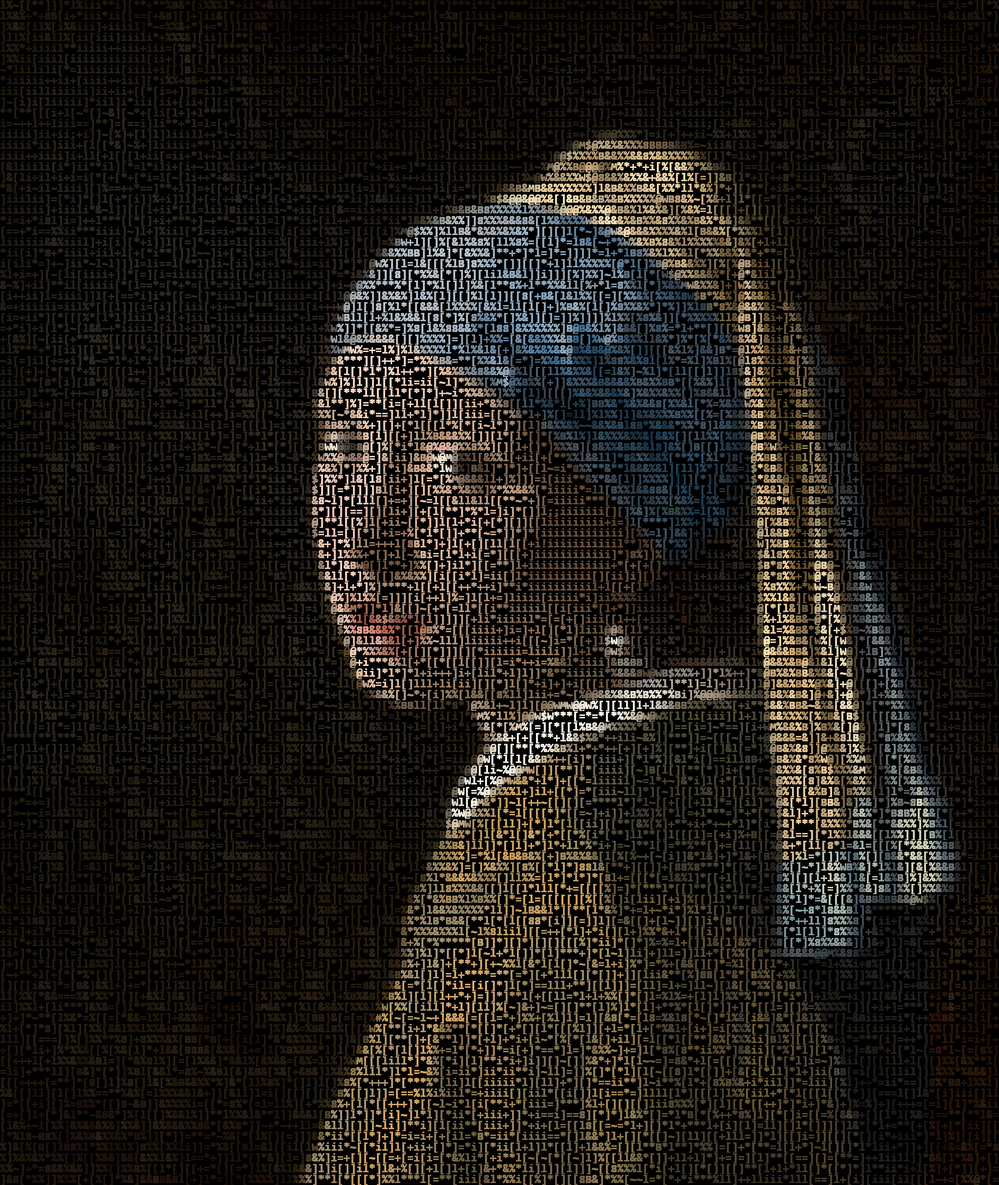
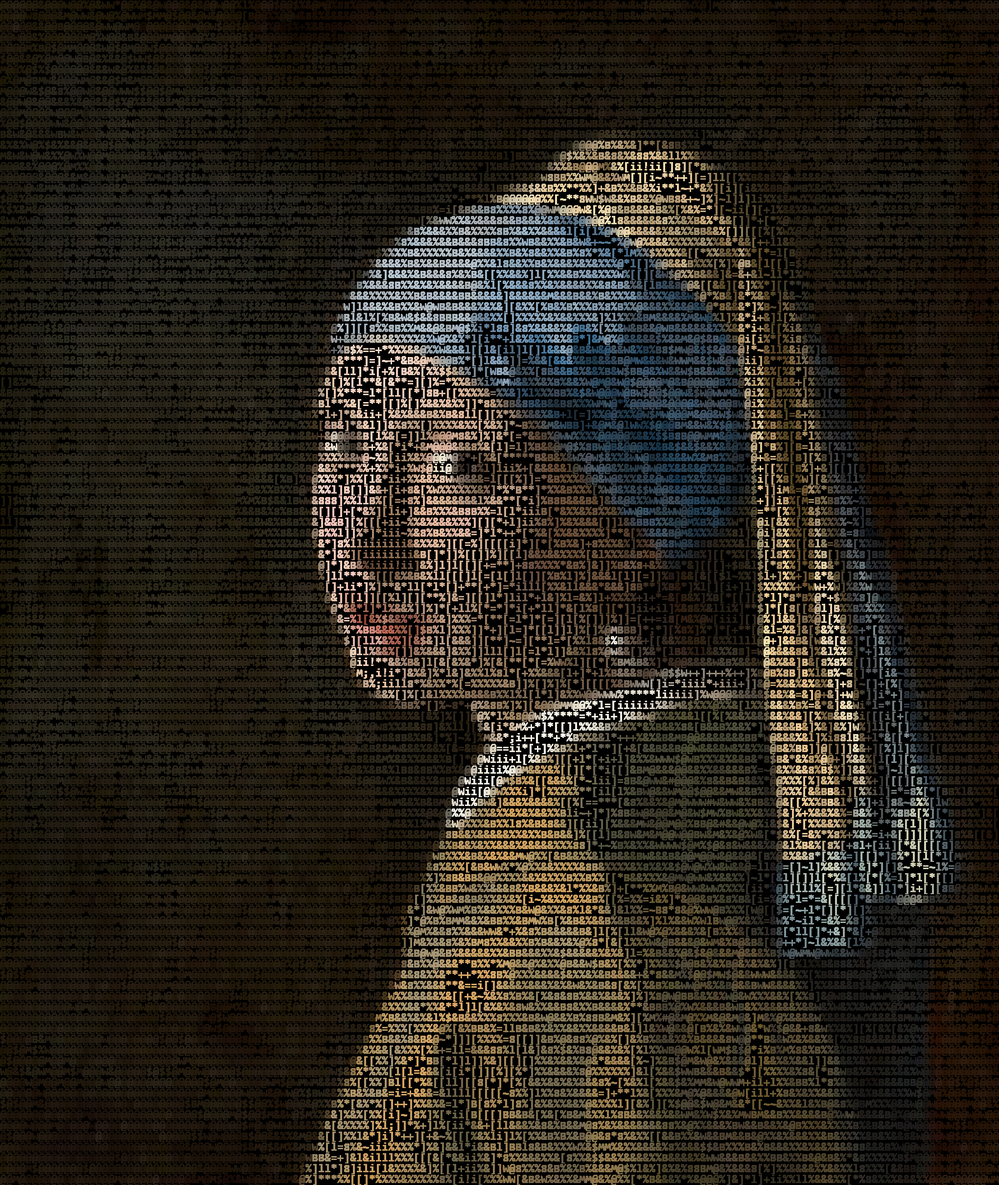
Added smoothing option in contour shade + reworked some docs

diff --git a/src/contour_shade/contour_shade.py b/src/contour_shade/contour_shade.py
@@ -57,6 +57,7 @@ def main():
                                     args.gx,
                                     args.gy)
     converted, p_cts = eg_writer.match(w, h)
+    converted = invert_image(converted)
 
     large_char_bound = eg_writer.gradient_writer.get_large_char_bound()
     color_result = ColorArgUtil.color_image(args.color_option,

diff --git a/src/contour_shade/gallery.md b/src/contour_shade/gallery.md
@@ -12,7 +12,7 @@
 python contour_shade.py ^
 --image_path ../../resource/imgs/girl_with_pearl_earring.jpg ^
 --resize_factor 4 ^
---contrast_factor 1 ^
+--contrast_factor 16 ^
 --thresholds_gamma 5 ^
 --color_option original
 ```
@@ -27,7 +27,7 @@ python contour_shade.py ^
 python contour_shade.py ^
 --image_path ../../resource/imgs/girl_with_pearl_earring.jpg ^
 --resize_factor 4 ^
---contrast_factor 1 ^
+--contrast_factor 16 ^
 --thresholds_gamma 5 ^
 --color_option original ^
 --invert_color
@@ -36,123 +36,123 @@ python contour_shade.py ^
 ---
 
 ```text
-l%~[[**]]]*l%iii**i][**+**%B&*[i%%%l*+ii*+&i&l*ii***iiii****+]**i**[[*]***i**i*****iiiiii**+**i**ii[**%%**]****i*]B8*l[*[*B*&%[]]l%**&&[[*****&*++=[=*i=*][*%
-l%&%+*+8B[i+*iii*ii[[==[+&B][]+]ii&[[[ii%%*i]]+iii;;ii++[]ii+**+~**][=%B[lliii+]&Biiil=++ii[iiii%iiii]*=*=]%]~==[l%&=l*~[iB&%]8]*[il]*ll[]iiii%iii~]+&liB%l*]
-]%&&[il%[i%&iii]+iiiil]*~=%%&+*]+=*l]ll[B&*]l[iiii+i*il=l[]*[i+[[ill]l]][[]*ii=*~+lii=l][ii+[ii+l]l[*l[=+*+]Bl]=]%%*=+*[l*i++]%[+*+[[il=ii+++i~+]ili;;i]%*][[
-]ll%[ii&ll%[ii[iii]iiili*+%%%&][ii][]**[~l[~]l++[+[iii]l[*]l[[i**i]]+[]*[[[++ii]]*[[ii[**]]=[][*~[*[l&l[ll][]l8i%*]]li[[[[iii]&*l[i]li[+]=+[*[l+[illiii[=i[**
-l%%*+iiiil**iiiii++iii+iii=[%B*i][****%*B[*ili=*i&*=*+[]]**[][+i=***li***][+[i]]l*+[i=**l]l*l*]l%%][]%l*l]8&*][****~%&**[lB[]l%ll[]+[[]&][+l[%l%&li[iii=]+*i%
-]%%ii[iiil[iiiiiiiiiiil[ii+[]&[[]*[iii%[i];iiiiiill+i=*iil+=[*iil==iiii+~l++[[*l[][][]li~=[*[ll[l***=l*****=]**[[li[+l[*=][[**l[[i]]][[=l=l%%8%%l]**ii[[ili][
-~*liilili[*=liiiiii[iiii+i[[]Bl=lllii]%[il*%*iliiiiiiili[i*[ili]+i[iiiiiiiiii+i*]]~[+*=i+l++]l~l+[]]][[+iil+*+++][]*i++i]**]&[iiii+]]l&[li[&[==%[[~=ii[i]l%&*
-*iiiiii++ii+[iiii++iii][*i%%+8&++**+[*&Biii&li]+l=[~][]+lii*iii*+]ii*iiiii*=~~[][%=]i]*][l=+*+]*=**]l**i[]i[[i[ii*[i%l]+iii%%li**ii*[*l*i=**[*]%+]++]+]*]]=+]
-iii[iilliiiiii]ii+ii+[[*[i=+]]8=ill=**%&&ii+[%[l[ii[][*[]l[+[i][i*[iii[%[]i][l]lll*&[l[]]%=]+l[++[]]+==[l[i=[~[ii]=+*=[**iii+iii[~l+%+l*i=iil=][[]%[%[=**[][[
-]~[i]i[liiiii]*iil]i*iii[ii+[ii+[][i[*%[l=ii[%*iili][]iil*l=+[~[ii][[[B&[+**l[][[i[**&**l]]*+B&+ll=iiii][*iil+*ii+~]iili[[i][i[~[*i[8+[i+*~~+[l%[]%*]l==%B%**
-**[**[[[i+l[~*[]~&][~*+[li[l+]+l****[[][]*li*%***ii***l++iiii==+ii%%]*+]%%+[]*l%]+**[+iii**il[]]=+ll&li]ii+iiiiiiiil]+++]*i~[]8&i~=+llll&&+i+l*%l**]]*[i+[i+l
-i=~++l++liii==]**]=[==i]li**+*l=l=[+*l]&&=+[i+[%%][ili=+i+]]+i*liii[*[][&[ll[[%[=[*iiiiiii=i[liil]~=liilli]=iii;[l+&&%+li+]&&[*][~[]=[&&l[*i=~+=[li[[[=[**[]=
-iiiii]ii+ii;+i]]~[%]+[l]l]liiill++*i~ii]&%]i]*&%%%%[*+[iil[]%+[[]i][[l[[+li+l8&ii[l[li*[[i=+[%@@@%%%*]=i[+]++ii~%%+l%%i*]%*[[]]8*i[ii%8%+[==i+[i*]il[l[i]]**[
-iiiii*ii]iii+[l[[*&]~%+]liiiii+**]l*i*l*%&+[li%=*lli**lilll&iii]][[i+]]*+ii]***[*[i]+*~*l@@M$@%&%&%%%8BBBB&B%=~iii&[ili~*%8&*l[]*[%][BW[[*iiil[[+*i+[*]+[i*&%
-iiii++iiii]i+ll[+l[[[l+ii[=ii+*l++l~[ii%[&=ii*~iiii[i]ii*l[+i****]lli+liiiiiiiiii+*++i]@@$%%%%B&&%%&&8%&&%%%%&%[l]*=li+]]**l[+i~**%]]]&[*=iii*=++i[~l[*l*++[+
-[&liiili[i*]ii**il][*=l*ili+[i+~ll[%lii+*[l%+i[iiiiii[]][[*+ii+=]**iii][iiiiiiii~~]i~%M@%%B@@@@%M%*+*+i[%[&&%*%&B&l[]==ii[+&]liii=W&&]&l=[ii*i[[+l[][[[++]~*i
-]&[li+il+i+i=i[*[+[*+[*i=l[~[li++*+&&i;i**+*[%]][[iii+***=ii~%i+++iii[]ii]iiii]ii[%W@W%&&%%W$@8&&%&%%&+&&%[l%[=]]&B[l*+l[++8*iiii]=%lB+==+i++*]i]**[**++]ii~]
-*&[+i~il~liii][]%==++*==]**+l]]=+[[+[[l[+]]~[*i%Bli[]ll[i=l]]*i*+~++]i[i=*[[]l&&&B&MB&&%%%%%%]l&B&%%B&&[%%*ll*&%]*+][]**[+i&+*~ii*i+%&~iil[=[+il[]=]]i[]l*i*l
-]iiilii]=[*i]*[]l[+*[i]]%+i]ll]+[+[++&*+[*l[+l+*i*~**%*ii]l&&liii]ll*+*[+**[%B$&@@&@@%&[]&B&B&B%&B%%%%%@WB8&%~[%&+l]l*[[=*[]+*+iiii*%&l%llll[ii][B**+i[*%*=li
-iiiiiii]+iiili*&~l]][[[l+ii*[ll=lii]8iiiiiii~*+ii[ii[&==iii+iiiiiill+[%B&B&B8%%%%%l%%&&&@@@%&%%@&B&%l%&%&][%&%=l[[[]+[][]][]iii+[i[i***&%*iiiiii[[i[==+*[iili
-*i=i+*i8l]i=]++l***[[*[]+i+***+]~+**~li*il=l]**ii+[il++**iii*ii*l&&%&B&%%]]8%%%&&&8&[l%&%%%%W&&&&&%&B%%&8%%&%B&%*&&]&&**[[[&~i=+%lii*[[%%+=[[ii+[[~[[]=[[+++&
-[==+*i==%%ii***iiii]~]l+]%iil[*l=i=i+**ill=i[i[ii*[%%l=][i[[i]%M@$%%]%llB&*&%&%&%&%*][][]l[*~]&@W&@&&&%%%%&%l[B&&%[*%%%l*[l]][[]][=i%%l][*l[l[]]+*+=l[*][l*][
-liiiiii&&%iiil]+i[i][*+i]]l[[=]*+iii=li[iiii%[[iii+l%]i]*[[]=%BW+l][]%[&l%&8%[ll%8%=[[l]*=l8&[~+*%W%&%B%8&%l%%%%%&&]&%[+l+ll[[*][[[i***]**ii]*[+i+iiil~++=*[%
-*ii[i]*8+*iiil+iil+l[+[*i**[]]l~~]i+[*i[ii=[%[*iiii*ll[][l*&&&%%BB]l%&]*[&%%&]**+*]*l=]*=]]]]*=l+*lB8%&%l%%&l[*%%&&%%&*+**=[l][++**i+[ll+[ii*i]*i[i=liii[i+[*
-i[ili*=]+~]ii*~l~l]]]l=li==l[**l]li~[ii]+i+l**+ii=ii]]*]*[@W%][l=l&[[[%lB]8%%%*[]][[]*+l]ll%%%%%[@*l[]%B@%B&&%%][%[%@B&ii][[*[%[[[[l[l[%&i]]lll]i++]*ii~[ii*i
-%l+i=+][~[li[iiii+]]*[=][i=iiiii[[iii[[[+[ii]i**iii]*=*i&%&]][8][*%%&[*[]%][lil&B&l]]i]]][%]%%]~l%B[l[*[W$@%%&&&%*[+@*&lil*]l]*l[[lllil*]i[*]i][~ii[[lii[[i&%
-&~%]+il]**il[iiiii[*[l==*=[*+*=[l*=*ii*=**lliiiii*i]+i~@@%%***%*[l]*%l[]l]%&[l**8%+l**%%&ll[%+*l=8%%l[*]%&%MW&%%&]+]W%&%i*[[**]]%&[*il*i]i*%%*i+l[+[*%+][*[%%
-[i++ii]l=iiii]]l[+[==*i]i**[[=~[]*iiil]~[][iiiii=i[i]l@@&%]]&%&%]l&%[l][[]%l[l]][[8[+B&[l&l%%[[=][%%&%[%%&%8W$B*%&%]@%&&&i]][+*%&&[[[]&&%%]*[[=~=*+[][l*+*8[+
-&=+iiiiii=iil%*[[[l]][i=[i][[iii[+i+~**[***iiiil[i+++W@]l[]8[%l*[[&&&[l%%%%[&%l=ll[l[]+]%B&%[l[]%8%%&%*]*%]]%l8B*8%&@&&%&i~&&%][&[&&%%%&%%*+[*[+]*l[l[i[]***]
-[i=+ii*][*[[[%*[l*l]liil]+i[+]ii[~lliii*iiiiii*+l==]%WBll[l+%l&%&&l[8[*]%[8%&%*[]%&]][]=]]%]]]]%l%%[%8%&]][*%%%%%ll&@B]]&i+]%&[&[&&&W$#[liiiil[]]iii*]l]]ili*
-=+*i]+i[l*l~[l&&~+*iiii=l[ill+ilB*i]l*]iiiiil+il+l+%W%]]*[[&%*=]%8[l&%88&&%*[l88]&%%%%%%]B@B&%l%]&&&[]%8%=*l+**[][[%W8]&&i+[i&%+B&%*&[]*&+++~+]*[]l~*l[~li][[
-+[&%][~[ii[+**%&%[[[[[[il[[][]=]%l[[][iii==]*i][illWWl&@&%&&&&[][]%%%%]=][l]+%%=[&[&&%%%&BB[]%W@%B&%%ll&%*]%*[%[*&%8&%&]&ii8[*$l%B[[l[*l%[*]ii*][l%%*][[][[]]
-il%***+*][ii][[l*l*[*l*+][*++]%*]lli[[+[++*i*+8%[ll%%WMW%=+=l%]%l&%%%%l*%l%&l&[+]&%&%&%&&@B%&B&@%&%[]][[[&%l%]&&]B*=@l%%&ii&&+8%]%[++*l[l[%iiii][%%&**][[[lii
-~i[=]il[+=+i]*&~=*l*+l*i*[]++8%*&[=[&]]lii&[+ii*+]%%B&***][]++*]=*%%&B&=**[%%&l&[=*]=%%&B&%%%]l%88%&%8l[l%*=%l]%Bl%[@l8%%ii%&[%&]%&%%=*]=]%]*+]l[%[]il[&&+[i[
-ii][+]+[*[*[*+%[][[[l++]]l*[[[]]%%[]l**[[+][ii+i][l$&[l[]*l*]%l++**][%&%&%&8&&%@@%l[[[ll%&%%&[[=l&%]~%l]*[ll[[]l]]l8$&]&%[i*&[]%%B&%]l%%&]8%+]*%l*]%*l8&l[l]*
-iiii**[8*[i][l&*%[][**=]]+l**l&%%%l[[*i[[=l%++~[[l&W%]%]l]]l[[*li=ii[~l]*%&%[%M$@%B%%[+]]&%%%&B&&&&%B&%%BB*[[%&%]l[]W&&%%+++&l[&%l[]&*%[*&&]l*]=l~***&8&]]B%i
-iil=]l**%~[++~=[B]%&%=[i*%%~]%%%ll+]*&&8[+*%ii*l[B&[][***ll[[ll*[*]*]+~i*%%&%%]%%*[l]][[[]%&&%&&&%&]%&%%&%%[]%8&&ll]W@%%%[=*%B8%%]**l]%]*&%%8~%=*]%l[%&%%&B++
-[[]%&=i+]]=[+[]%[[]&%]i]+l**=]**ll*[i*%&]]i][+++=%&l**]%]=**[i=[+ll[l[]][ii+*&%8[[ll*%&*l[+%]BB%&*%&%&&8[%%&l[*%=%&%%W%&%&[i*&&&%l[[[]*l%+*8%&&%[*]]l]8&&[[~l
-i=[]*ii8[]=+[[%%l[[]&l[[+iili+il[++]i=%%[[*+l+%%+%%%[~*&&i*==]ll+*l]*]]l[iii=[[*%&*l+]%[]=ll]%l%%]l]&%&%%%B%%[[%=[%&&&&B%&lii&=&&l]=*[i]&]l]8[%&l[=**&[l%%]][
-+l=**[[]**+i]%B&%&ll****+%%&%ill=[l=]=[[[l]=i*l[]l&&B&%*&%+][]+[*l[[[l*%[*[i~l*]*][l]8&%%&%~~&&%&Bl8B*%&&&*%%*8]l&&&%&%B%&]]+&&&&*[]][+]]&&]+[[%&&][**B88[][i
-*=]i==*]]lli]%%***lll%[i*%%l]%l[l*]=]=]**l*[l]l[i]%@@@@&&B[l][[+]ll%B&&&%%[]][l*[l*[]*[%B%l%]l&%%%&%%&[&&%[][ll%%[%8%B@B%&[*iB%&B8B[*][][B]%%&&8&%[*]*l%%==&l
-iill[l]=[ll+]B&=lB+]]]*][[]ii+l%*~[~][*+ll*[*][[+]BWW@@B8@[]%[*i*l&@%@&@%%8%%][][l+[]*]%%%B][8&%%&B&&&l8]&%[]B[[]l&%%&@B%W%+iB=[&l*%8l[%%&]&%i[+]%*][%8&[l[]*
-iii****%&&l]%%][=%l[[][l*l=[*=]8%==%&*i]l=*[*~&*+%W%%@W&&@=]&[ii]&B@W@M@%%l[&%%l[+ii[+[**%%l&&ll]*8&%%&&%[**%*[%l*]8[+@%BB&[iBl[&%]]]*&[&&*%%+8[**][[%**[**&[
-iiii*=l[&&[*&l[*=&]]l][i+l*]=l&&&**%%[i]ll+ill[i~@%&%]*]%%+][*i]&B&&*lW@%]B&l]*]*]+[[l~=i*8%%**&**l&&&%&l][ll]%*][%&=l$*&B&[iB&]%&]l[[l[i=i&8l****%l]+*[][l%&
-ii+i~]]]*%[+]ll[[[l]l[*]++i[]l]]&*]%%*l*l*iii*+[[$]%%*]l&[l8[ii+]l[=*[%M@&&&ll+]%]]]=i[iii**&%*&&[l]]%%%%]]]][*][&&%*l$*&&&@i*&8%&[][l+[~[+[*ii[]=[[%%++[[]]]
-iii+[l[%%*[][]+%%[l]+[=*l]l][8[&+]*]]~[[i*liii=]&$]][=*]]]]Bl[i+][][%%&*%&%%]%*%%&&%[*iiiii*=ll[B%%l&&88&[]%[*[l[=[]]*@%&&l@[=&B&%B]&&l][[+[[+][]l*~**++*[l**
-;i++=~*%%[[[l][%%]l[%[l[]%8Bl*[8=[[][[**ii+*ii**B&8~l]*[lll[]+=+][~=l[[&ll&ll[[**~*+][=iiiii***[*&%[[%&%%[%&%=[%%=**l[@&%B*M&[B&B=%]%%ll]li+**l][i]+&][[++*l%
-iiiii++]*l*][]*[[%[8%[*+l%[[]]**[]l]l+ii*iiiiii[%&*][][==][][li+][+[l[**]*%*l=]i]*[]]l;;iiiiiii[][]%&]%[%B&%%=l[%B[%]lB%%8B%%]%&$BB%[*l[[[&%%&%[ii]lll*%l+*]%
-iii++]*=[][[*[=]]**lll]]*[=*[[*~%&***[i++liiiii*%@]**l[[%]l[+ii~[[*]]l[l+*i[+[*][]][[liiiiiiiii+i=]l[****]l%%+]*&]%%liB@[%&B%[%&B&[%=i[][%%%[B&[[*****ll=+i][
-iii*ll[]*l%]ll]Bl~=l]*%[*i+][&=~&%i]&[[~[*+*=**~l$=ll=[][*][+i=+%[*l*[]]+**[~=*]]*]*[iiiiiiiiiiiii][%%=l]]&&]+]l][[l[[%@l&&B%*+&%B*%%~8+*]=[==]*i==]iil][+]]l
-iii%%%%&[[%=[l]l]%l]][*+l[+[[[ii&%%=+ll]lii++i*[*W&+]*%]ll=+++l[8Bl*]+]l[+[][ll[l[[+i!iiiiiiiiiiil**]%[%[*%%]]]****%[l%W]%&B%ii%&&~%%[[[[+l[]l[[ii+[i+&[l**]*
-iii%%[=[l[%]*][i]%[%[[+i[*][]+[+]+]%&**[l*i+*iiilB&+]l%%%+*[]+l[~%Bi=[l*l+i[=*][[[+]iiiiiiiiiiii]*]8%]]%[[[%][*iii+%[i%$&l8%%iiB%&B]][l8==[]*il[*ii]]=&[iiiii
-%li]]l]]+==[l]][*l%%*]++*=*%[[*[]]l]l]=*]i[[=[*il]&l*]&BW@[]l**+]%%[]+]il*][[=**]l+iiiiiiiiiiiii+*[+[+[]***i*==ii]=88=i$B*8%%iiM@B@~]%%B&%*ll=liiii*i]*&]+==l
-[[i][%*[[]]]+l[~%%[&%&[[*]+&[*[]&%%+[]ll][*8%]][**&&ll[*]%&[[]&%&%%][i[[i*l]=ii[]l*iiiiiiiiii[][ii]i][]l*[il[i+ii&il=*i@&*8%%+]W@*@@[]8&&%l[%=[iiii]+l]&]l]l+
-++iill+[[*[*][[*&%%%&**[iii[][[[l+=+[l+[ll][l=8&%l%&]+l+*]%]****+l[[+l[[++*++i]**i*iiiiiiiiiil+l[[+[l*li+]~iilii+iii+i*$%8%%%+*WW~B@]&&&W%%[&**ii=i*]*&]+]l*=
-i]*%%[][][%=[l][*=*]**l*][l][]]%*=****i[**=l[i%&%i]M@%]%l%%[=]]][i[++l]%=]l[l+=]liiii[iiiii*i]ii%%%%iii!i*]=+*i[*=i+[i]$%%l&&][W@*%@%&%8&&%[&&l]+*[]+l&%%[+*]
-iii*]il[l[&[]][+=li[i]li]*]%&]][][]]+l[[i%%%l~l]=i]%@&&M*]]*l]&[[]~[+*[=ll*[[i**iiiiil[[i[iii*[l+*]]iiiiiil[[+%]+ii**i~@[*[l&]B]@l[M@%B%%&&[l&*lii**[l[][=+[l
-[i[i]i+][*[l[=]l]l][==]+][]%%l]]][[]+]][[%%**iiii+*%$@%%l[&&$&&%*l[l]]]]][+li*iiiiil*=[=[+[]iii[[l++[+iii*~8[lB%iii;ii]@%+l%&B&~@*[%@]%B&B%&[%&[=+i[l[&&]]]=+
-*[[][i+][+**[+**l*%]%[[**[*%[**[**[[[[%%[*][[*ll**i]]$%%8B&&&%*[[l@B%*=[[[iiii+]i=]+l[][*l]liil@@&[ll*iiii*[=+%iiiiiii*@&l=%&B&*$&[+$%B~%B&8]*%[+*==*l%%]***i
-**[][[~&ll[[+l[%l*+*%l[]]l*[[]lll%[[[]B&[[&[[]B=[l[]*%@]&ll&&&l[+]%%~lll]liiiii++i[[[~]i=*[[+]l$W@&[[i[i+%*]ll]+][[]lii@@=]%&B&[W%[[W&]*[&&&[]8[+*=+]ll[]*l]+
-**i*]*%%8=*[ll[%8==[+*[&*[]l[[]lB&]%[%&[l]%][]%+**=][=@@*%%%&%[+[[][*]]][][*iiiiii=liili]]l+l**@W$%[l][*i+l*+*i][+][[*iW@&&&BB&]%&l]W@]+lB]%%]*%**+*l[=][][*[
-il+=*[8%&[&8&]l*[[i[*+]]][[**%%=&*&*l]]*ll&&%l%ii[l*=]%@+i***&%l[+*[[*[[l[[]][l=i*++i=%&&l*iiii]&B&BB][[+%%&&&&&&&%%&llW@&&%&B@&l&l[%@[[]]B%&l]]+ii*~*8l]]*ll
-ii~[l]*[]]*[*l*&]l%*[*]&[=&ll&88&%%]8=*~[]*l[lll+l]++]&@@ii]*l*]*l+i+++]i+[lil*+l]l]]*&**iiiiii*%&&&8W@WB$%%%+]]*l%++]*&@B%&%BB&%&&[~&]]**l[&%]l+i~=[[l[*l**[
-i+[[]+*]+[[[l][%%]l[][l**[l%][&B%&B[]%+]]]=[ll+][[*i~ll[@W%=i]l[]lll+li[ii][][*]l[]*+i]+]+i[[[i[%&&BB%%%l]**l]=l]+][l]]l@]&&%B&%@%&]+@[[[]+[%B[%li]]~[%%li[=]
-ii]l*&+[+l=**i=l]i*]][l]**]*&&&%**[[~&l]*l=]]*][]**i+[*+[%%&&%[]~*+[i]%%[l&&[[8%ll]lii+=*~[%@@&&%&&B%B%%*%Bi]%@@@@&&&&&&$B&%&B&]@+&]+@@*]l+%&&%%[*[i+]%%===+]
-+[]&[&[%ll[+]]&[&[=[]=[[+[=*%[8%%l*]**][i~]ll8[*i=*~~i=ll*l][%%BBll[ll*8*]@%&l+~l]l][@@WMW@@W%[][ll]l+l&&&BB%%%*%%%[+i**$&&%BB&~&%&[&&@]*[**%%%l*[]+=***l*=+*
-l]][]]]%8**=*B][]%[*[%l[%[+[ll[%%[i[]%]+][ll***[*]i]il%&&]+l*=l**+[[[i[i]*MM%*ll%]@@W$W***[=*=*[*%%&@W@W%[l[li[iii][l+l]@&&%%%%[%%B&[B$][[[[&l&%]*l[~ll][++]+
-]][[[]=][*=]l[8=l=l+ll]=&]][i+%[[]]&[%*ll][il&Bii[=~[[*[][&%ili]+l=[i]+i*i*%&[*[%M%[=][*[[l%B&@M%%%%*&l]]]==[i=]~*==][i+WM%&&%B]%B%&[]@&]]l]*[8&[[*li+=iiii[l
-[****[**l***=]l[8=[[[~]++++*i**l*=&[[[][**ii[&&illi]][[&B*%%=]]][+**i*iii][%&%&&+[+[[**+l&&$%&*++ili~&%]]***]]=~[[[~[=[+@@&&&=&]]&+&8lB@]l*8%&%%&l*ii*l[+i]i]
-]=[]ll+[]]l]+%%l[[lll[+l~[[ii]l]*ll]*][[[iii]%%[%[][[l*%%l+][ll*[i]ii[ili][@@@[][**[*%%&B%l+*+*++[+][+]%][**]+i[[]&l[=*]%@B&%&8]]@%&&]%$+][&]&%&]=[[+l]l[iil&
-+*[[]ll]l]*[%B&][[i++l=i]+li[ii++[]*][i][l]i]&+[*l*]]=*[illi*+i+ii[*[l=iii@@W[*l[l[&&B%++[i]*[iii+][*l*%][&l*i[]==ill8B+*$B&%&*8%W@][%%M&[[[*[%&%[[][[*[]+i+]
-[]*[*%i[%l]=%%%B[8+]*&*=lii*[iiil**[*]*%%&*i%&*[***=%%%[***l*[il=*+++**l%@@[li~%@@MW[]][**][*[iiii][~]B[l[][**[*]]i+[*[=~@&%%&[8%B$%%%&M%]*%&[&B&[l]ll[l]&[*]
-[[][]%][&[*+[l*%%[l[B&=l+lii]]=[]+]l[%=[*&[]%l+%li[=[8Bl[%]][lii+i]+[]]%@Wl+[%@MW&&*+l*]+[[*=liiiil]~=l*+~]&*i]l[+*[l]l[*@@%%%[8]&%&[%&%%][%%[%&&%%%[]*l+[i**
-****l[[*[[[%liii+8+*%%~[liiii[i]ll]~[]]*ii[]%=llB[[[][=[*%+**iiiiiii~[%@W[=%@@%%%l+]il+[[*]=*[iii~ll]*][~]l[[l%&]]][]l[%&%@%][[&%B]&]B%%&[l]l*=%&&%[]**+[iiii
-[]+*=+=][[[%liii+**]8&[][+iil=ii***8%]8%]l++]&&+]][]*&&][[=]il*iil*]*&@Wl[@M&*]]~l[++~[[][][=****l*]*l~[[+[[[+ll]*=][il]*%@&[*l][BB&]&]%&]*]%B~8B&&&%l*]*ii++
-*l=~+~i=l&%l%][[i[**B%l&&[~+[[&==*[+~&*l*]*[l&%+%l%[l[B]%&l*[iiiii]8[*@%W@&%%l[*=l[[[[*]*[[=~]+i]]+l%%]%[*l[=+l***=]*+*[*&$&l]+*[&B%%]&&%*]*B8B%[&&[*[++*iiii
-i]=+]*i][]*]&8%[+l[]][B&]*l&[lB&]*[[*l[[+l[*]~[*&&BlB%%[]%&]*=[iii+%%%$@MW[%[[[ll]+[*]l*[l[[ii][[**[&%[%]+**+i+*+~+*l]*[i*$&]***[&%%%*B%&[**&&%%]%B%l[=iiii*i
-i+[l=i+%&8l[]%[][]]]%[]]**]&l&B%l+i][=**=[**B&%&&B%%]]%*%%&%l[iiii[%%B&&%*[]l[&*l[]&*[+*[[*%[i*[**]ll**[]l[[[l]=[+i]%+B[[=@&l==][*l%%l&&&[[l%%]]][B%[l[[iiiii
-iii[l+][]&[]]&&[[*[*&8=+%%l]=B&%+i=]]%%++l++*l[8%l%%ll&l[[l&&+=iii[%B&%B&]ll]]*[]l]+*]l*+ll*%*i+]=~]**l[]=**%**[]+=[ll[][%@&+*[ll[8*l=&l=[[[%[*%&&%%88&]l]]ii
-][+[[]%&B&][]%%&B=[%&l[+]&ll[*&[i]*&&%B%&l%[%ll[][+*[l%8&[l%[[i[[]%&&%%%%]=*%l[&B&B&%[+]B%&%&&[l[%[%~+[~[i]]&*l&]+]*l&+[B%@&]%l=*[]]%[8%[][8&&*&&[%&&B&*=iil+
-[*]l]+[]%&][l=&l][**%=]=ll+][i]il+*l]l*l&&l]l[+l]*~]+[]]][l[[&**]l+&%%&%]=[]%&%%][8%[[*l]*]88l&[**+][[]]+[88%8***]*[[%=]l&@%[]~*]l&%WB%&]*l%l&][&[%&&B&l][=]]
-]+*]=[8]%]]l**[*+]&[%=*[[i==%l+~[[[]*=*%%&][*=]]%l[[&B[%8&*]*l[+~[8%l*&&&%&%%%[]ll%%=[l*]*l*]*[8l+=[[[*[=l&%l]*[[+l[[*=]*[8%][][l+l&&]l&[=l&%B]%]&%%&&&+[[i][
-]i]+=l[*]ll8ll&[]8[]l%][li+*%]][[*l]l%+[=*]+=[[&*]%%]*%&%[+[[=]*%8%]ll8%%%&&[[]l[[l*lll[*+=[[[[%]=]*[***l*[[]**[]i*l][*i=8&&[l*+%[=]%%*&&]8&]%%[]%%&%8l[[*][+
-[+]ii][i[*[l]][[]]*[[&lii~=*l[[[+*[[%&l&]*i+%&][][%&][%&&*[*[]*+&%[*&%BB%l%B%%[]*=[l=[[[[[][%[[%[]i[lii][+i]%[[]ll*]**[[+%&%*l]*=&[[[&]&BB&BB&&@W$%[[*]+[i=%*
-%i*ii[%l*l*=[8*+[l*]+l]]+=~*][]*+**[**[&%+**%+*[[]%B%+*[[[[[]]=%&*]l&&%&%%%%*ll]]~lB&&l*][**[l*&%]*+=l+~*i*]%l*l[]l**[B&*]&%[~+8*l8&&Bl]&*****l**]*][~*i+i*%i
-ii*il8&]l[l&]][lll=*][[[]l[[%]*]l]=l*~[]B]l+]*][[*&[*l[[[~[]%%l&%*%lB*B&&[**l[*[l[[88*[i]][=]]l][=&[[]+[l~]][]]i*[B[[[]%[&&%*++ll]8%%%8]*[ii+[*[%%i[[i[+i]][l
-+ii]+il*[==i[&+][+i]&[l]l][]*]+[]*[[[l[%&*BB&]+&[[8]+*]l%&&[][*&*%%%&%%%l[~l%8liil][[=++[*l]+*i[][l+]%%*&+l*[][i]]*]][[ll8&[*l[l]]*8%%&[+&i*+l&&%*+*[i*=+*l+]
-ii[*+iiiii*++[*%B]l*l*]]l=]][]==*[***[l%%]i[%[]=+*%8ll8][l%[l*]&+%[*%*****[B]]*][]*][][][[[%]*ii]*[]*]%=%=l+[]]l&[l]&%*[[%8[[*]%8%%&&&][]&+]l]=&[==**+%[=]8i[
-li=]*+[]]+[=]*~%%l]*++~]&%ll[*+**ll]l][[~**[l*]l][&&%l*l[*&[*%&%%]%l]*[[*]l[~l+*l[]]*[l]***+]*[l~l]li]+]ll=]]ll+*[[%%[[8*8&&&&&&@@M%&88%%l=*]l]i*+i[~]B**l&i*
-]+][[l*i[]l[ll&%%]l[il=[*[++~*ll&%*]+l*[][+&[i+[=[i]*]]&%%%%[&&8%+]l&]+[**+][+~%%l[&*l[l[]*~[&=l+i]%*]=*%+[&&[][]*=%l[[][l*+][~**=l+%%i+8%[][]]+[]ili***+ii[]
-[~+**+l[+[*[*%*[][]]i**[*l]l=**[%[*]%[[[**l%[il]%8&[+l*]**%ll&B%&l[]l]=l+****=**[=*][+*lll[][*[]]+]][lii&**[%]88[l*&*[B%%[+%%[l[]*[]%%]]%&[*%*%l[li]i]]**]*[l
-[][[[i&%]*=[B&]&%l+]+=*[]]l]%l[l[&&[[l*=[llB*+[lB&%[[][==8&[&%&[=*[l[]*il=[i[]*]l[*]==lll+**][[l]]]=[ll]=l+=]ll~][l&[[*%%[&]Bl[[*l[][ii**ll+]]=+B&ii*[=l]li+i
-ll[%%[*&&===%&*%%*][][+&%l]&&][[=[&***i[[%]%%**%&&%*]+%B%&B[%B%l][l][l++*+]=]]*]**l[+[[ll=*l+l+%%[]*[]l=%l%=+[l]l]%%*%]**][*i*]]+l%%~+i]]l[&&[ii[[+i*B*i=[ii*
-il]%%l+[li***]&%&=[]l**%%&l]l%&=[+[+ii[]8M&&**[%l[&&&%[%%&l%W[%%[[ill]*+l][ll]%[~]&+]~=[][]**[l]%]l*[l]+**%*[l[]*]]+][*[[l=][]%=%%%%%[]][+i+]=***l*[&&=l*[l[*
-+]+]*~**[l%&*=%[[=[*&&=l%[]+&&%8+l*l+]=]]]%&%]]%[BB]&[=[=[%#%[~[=~l~+]&&&[=[[l=*+]%%+[%l]l]=l][&8[*=[l8=%&l8[*~[]*l%&[i&&]&*[l&l%%*[]~&Biii==i*[++%%8&*+l[i[+
-%l+[*]*8][%l][%%[&&l%%l%%&+8%&&&B[*[[l*]**]%]&%=%B&l8%[[[%W%[**[i+l*&&%**[*[[]*[+*[][l*[[[%l]][+l=*[l+[*%&l+[i+]=i[%%%[*][%%][*[[%*[[iii[iiiii+l[[%%[][ili]**
-lll][[===[]%[]%%**%8]+8%%%&%[BB[*B[+[[i[l]*&*&%%%l[*]]]&[B%l][**[]+[&**l]]*[+l]+*i+[i~*[%[*[l&[]+il][=l[[*l[[**]&%[%%%ii]Bl%][[l[%B+i*=***[i]=++*][*ll*i=i+[+
-+[][*li+]%*%%&[[%[%&[l]*+l&&[B88&[&%&[l+=]l[%B%&&&*l]l[]&&[%[*[l[]l%%+=l*[*+]]*=i[+]*==*]l=]*&%%~]+=]l[*8%[8**ii%%*]&&ii][*%]*l][l*&]+]=&B*+l[*l~[=8*l~[=[8%]
-[[+++l[+l%%&%%&Bl=][*&%8l%][=[l%&&]*&&l%[&%&&=[&%=ll%]%WM[[[lill*]*&%[*i][l]**i*i+]i]][]~[]]%&*+]*l[l~~=]=8&*+l[=[[[%%i[[]*[*l]i=~]%&ii[][[lll+l[][]%%[&%**l[
-=li]+***ll][B&]*[*]]%Bl[&&l*=8%~%&Bl[&]&B&[%&[+&B&]l%&%8%lll*]l*l=~&%[i=ii*]ii*ii**i]~ll]=]]%[]*[*l][l[~[[8]l*[[]]+[&[i[*ll]*l+]ii[BB[=i[[l[llil]]l%%%*%&&&]l
-[[[++++[=**]*[8[]l]%8[]l&[%&B&&%%*%]&*[ll%8%]*[]l]l[]%8%[*+++]*[***%*[li]l[[iiiii*l][ll]+*][]*==ii**]l~i**%[l*+[8%B%&+i*iil]]*=lii][%l]++*=ii*==]]8%*B8+l%%l]
-%&[[]ll][l[]l%%==**%&%[=l%%%&&l&+]][&ll]l=i[][[][][[%B%[[]l]]=[==%l%i%iil*=+iiii[][iil*[[i[]]l[i==*=]llll[l*][[[l]l%%[iil+*[*l[[[l[[%[*]][===l[]l&*[i]iii[]ll
-]=*[[+i][]%=B%%*[[]8~&B]]&%%%%i=[[*=8%*[=l=ll%][+*%%8%+[l[*[[+++]*[[~l~i*l[i[**i+*[iii=]***]%l+[][][[]lii8%%%[*][l][[*[[++]*]*i+]*&]+]%=%]+][+++=[=i][l]*%&ii
-[=+[]l+[*]&l**~&B&*]%[l[[]%&&l%]]**l%%&l&**l]]&&&l[B%]]l*]]*[i]~]l*l][*ii*[+iii+]]*+i==i]==8][*]*]l&%*[]=*l*B[*[%++*8%]l][*[]i=[[=%[&&B+[][l*l[%&=l==**[**l&=
-[l&%+~l[%%]&%&&&%&]%%&]]&%&&&%%8&*[&%8*]]~+*~++ll=&&ll][]]]~li]]**i][l[ii**[iii+]]*+i+[l=[[l8[[=~=*l+][]*l*+***l+[i][l]=ll][]l*[]]][]l&*[*l+=**[+[%[+[*[ii][[
-[*%l8~B8%[]%&%B&%%&%*B%]][*]]=**=*~%&[*[l%[][=]]]&&*ii*[[l*]+]*=i=i+[+[il=*B*=ii*[iiii==*[]l&&*]l+[][*[[]~][ll][[+lll=]]*l][[]i=]][[][*[][i*+iii*]*l]%][[i][[
-%]&[%[B[]lB8%l*%%l%l%]8%%[%%li]]=*%&[[8l=&l[[il[lW%iii*~[[*il]l[+ii+[]*]=*i][*ii[l+l]l*[[l]+l&&%=[][l**B*l**]*%%]=[]+*[**=l[l+*]~l[][]*l*lii+*]]+][[+&=&%[=*8
-%]%&%&%*%%[]%[[%&&]&&[&%%l&%]l==*+]]ll*[]*&][l=]8&%]i=+[][~[[=+[=i[i=[*&%li*[+i**l[~[~[*[[~]l]%[[ll&&*[]]+ll+l]*]+=]=][l]**[[==][]=[**=]++liill]]*&&[l*%&]+[]
-%%~]+*=8&&%&&]]%%[]%%B%[[l*[][[+=*[][=*]l%[&%l&&&]l]i[]]il*]l&+%[][+l[]l+[i]&+*&%*li]l]][l]]]~[[8%%%l[*i[+l[][*[]][[]**[l+l+*ll[]*[[*]*]l**ii*i+l[%]+[*]][+]=
-]&8[*%%]]%%%[+[%[]*%&]&&BB&Bl[+]l*=][*[%%%%]ll%%%]**l[*[[[*]%%l***l[=**[iii[&l*%%i[[%]*[][[8B&]*%%[~~l=*[*+*i***%ll]++lliii*lll[==]l+[i][iii[il[[[l~+=[%%@*[=
+@@@@@@&@@@W@@%@&WW*@@%@&@W@@@&@&@@W@@%l%@@@$@@$%&@M@%88%@@M@W@@@%@@@@@@@@W@@@W@W@@W%&%&&&%$WM&&@@WW&W$@@@@@@W%@]M@@@@@@@@WMM@@@@@@@@W@@@@@$%@@@M@$M@@W&M@@@@@
+@@@@W8@@@&M@WW&@W@%@WWM$MM@$@@&@W&@@@@[B@@%%@@W&8&%&&&&@@@&@@@@@@M@@@M@@@@@M@%W@@@&&@@@WM%&@M&&%@8B&W@M@MW@@@M@@@@@@@@@@@&@@@@@@@@M@@@@@@@&W$B@@&MM@@@@@@@@@@
+@@@@@&&@@B@@@@&@WW@WM@@@@@@@@@M@@W$@@$@@@@%@@$%+%&&B@&@@@@@@@W@M@@@@@&@@@@@$$@M@@@@@&@@@@B%@@@@W@@@@@@@@M@@@@@@@@@@@@@@@@@&%W$@@@@@@@%&M@WM@W8@@@W@@%%@@@@@@@
+@@W@@&%@@@@@@M@%W@@&B&@@@MM@@@@@%&@@@@$$M@@@@@&@@&@&$B@@@$@@@@@@W&@@@M@@@@$M@&&@@@@@&%@M@@@M@@@M@@@@M@@@@@@@@@@&@@@$@@@@@@M%%M@WM@W@$&@@@@@@@@WW@&@@&%W@@$WMW
+@@@@M%B@$@MM@@@&W@$@M@@W$@@@@@WW@@@$$@@@@@$W@M@@$@$M@@$M@@$@@@@8@M@M@%@@M@$W@M@@@@@@@@@$$@@$@@$@@@@@@@$@@@@@M@@M@@@W@@@@$@@W@@@@@@@8@@M@@@@@@@@@@@@@@&&@@@@W@
+$@@&&@%@M@@W@B@&%&&@$WW$@&@@@@@@@@@&&W@@@@&%&&@&%@$@W@%&@@@@@@@@@M@M@&&@@@@@$@@M@@@@@@@%@@@@@@@@@@@@@@M@$@@@@@@@@@B@MW@M@@@@@@@@@W$@@@@@@@@@@@@@@@@@$&@@B@M@@
+M@@%@$%$@@@@@@&&&W&@%&&&@&@@@@@@$@@%&@@@@@@@@&W&&&%B&BB&@$@@%@$@@W@8%&$M@W$&$$$@@@@@$M@&&&&WW@W@M@@@@@@@%WWW@W@W@@@@WW@B@@$@@@&%@&@@@@@@$@@@@MW@@@WMMB@@@@@@@
+@%@M@BMW&@@@WM@&&@$M&M@@@@@@@@@@%@WW@B@@W@&@$$@M@WMM@@@@@W$@M@%@W@@BM@&@@@@@@W@@@@@@M@@@M@MM@@@@W$@@@MMB@@&%@@@%&$@W@@@M$&M@@$&M@M$@@@@@&@@W@@@@W@@@MWMM@@@@$
+M@@@W&$@&8%@@W@&@@WWW$$@@$@MW@@@&&@W@@@@$&@@@@@@@B@@@@MM@@@@@@@@W@$@&@M@@@W@@@@@$@@@@@@@@@W@M@W%@@@@@WM@@@&&W@$&&@@@@@@@W&B@@@B&@@@$@@@$WMW%$W@@&M@@@@@W$@@@@
+&@@W@&@@&&&%&@@&&@$%@%&&@&&M@&&M@@@%&$@@MW%&@@@MW$&@@@W&$M@WW@@@@%@@@@@@@M$M@@@@WW@@@@@$@$@W%@@@M$@&%B&@#$B&&#&%&W@M%B@M@&&@@%@W@@@@@@@&&@W&W@M@$@@@@@@W@@@M$
+@@@M@@@@W@@@M@@@@@@@WW@@@W@@@@@@MW@M@$@@@$@M@$MW$%%MW@@W@8&&&W@@&B@@@@W@@@W$@@@@@W$WMW%%%&B&M$@@W@@@@&&M%%88&&%B&&M@MW@W@@&W@@@@$@@$$M$@@@%8WWW@@$@@@@$&#@$@$
+%@@$@@@@WW&@@@@@M@@&W@@@@B@@&$@@@W@M$$&@@@&@&@@@@@@%&WWM&@@@MB@@%&M@@@@@@@$M@@$@@@&&&B&&%B&&WB&W@%MM$B%&&%&%&&&&%&&W@@@@&&@@@@$@@@@$#@@@@$&%B&&W#@W@@@W@$$@@M
+B&W&@&&&WBW&W@@@W@@@W@$@@@@&%&&%WW&&W%&@@@@&@@@@@@@M@&@%%&@@@@$W@&@$@@@&W@BB@@@&&$&@&%8@B&&B@@@&&%%8%%%%%%B%%i]%WW%@@W%$&@W@@$@@M@@&&@@@M@@B@&@&W$8M@@@@@@@@@
+&%&%W@%$&%&&@&@@@$@@W@&@@%%%&&&@@@@W%W@@@@MM@&@&@@@%%%@&@@@W&$%@@&&%$@@W%%%&$%&&&&&@&B&&8@@@@@%B%&%&]**[&8B$%&**&&@@%%&W@@$@@W%@@@@@@@@W@@%&&&M@W@WM@@$@@&%@@
+M&W&W@W&%%@W%W@@M@@@@@&&%W@&%W$M@@@W@%8@@$W&%MW%&B8@&&&&M@@@&8&@W@@&8@@&%&&&&%Bl]B&%%%W@@$%&%&B&8&%&88%&&ll%%&%&&%B&&&B&$W@@@@%M@@M@@$@@@M88%W@@&@@WW@@@@@@@W
+@@@&&%@@@%@M%%@@W@@@@@@&&@&@@%$M@@@@$&&B$@&@%%@B8&B&&@@@@@&W&&B&@&@B%&%&%%%*]%B&8%%%B&&%%&B@@@M%&%[ii!ii[]8][*8WWW%&B&&&%@&@M@B%&@@@@@@@M@&%@&WMW@@@@@@W@W@@&
+@@@@@@&@@@&&M&@@W@$M@@@%MW$@$$&WW@@@@&%%@$W@@@@@@@l&&W@@$$&%&$8WW%&%*BB&&&%]&&%%l%&&&W8BB%%WM@&&%WM[][i~**++][=]ll[[%%B&8&%@W&&&&@W@@@@@@@BW@@&&W@@@M@@W@%%@@
+M@@W@W&MM@W&W@@@@@&@M@@@@MM@M@@@M@@@@@@@@@M@@$@@@W&@@@@MBW@@@B%WWB&B%%%*8&&&&lBB&&&$&&B%%**%%]+&B%%&B&%i**l~+*&%][i][i&%&BB@WMB%&M%%M@@MWMWW@&B@@@@@MW@@@&@@$
+$@&%@@&@@@W@@@@@@@W@@@@W@@W@@@@@@$@@@@@@@@$@W@@MW@#@@$W%W@W@@@&B%B8%%&%*+**%l%B@@@@@@%%[~**8WW$W&&%B&&%@WB8&+~]%]~l]l]li%%$&MW%%@&WW@@@@@M@WW%&@&@@@WB$@@W@@&
+%$%&M&@@@@&W@@@@@@@@@@@@@&&@@@$@@B$@@&B%@&&%@@MB&@&W@$M%&&&&&%&%%&BB%=i[&B&&B8%%%%8%@@WM@@@W&[%@8&B&&&&B&%[%&%=*][~ii[][+l%&&%&WW%M&W$%@@@&%&&&%@@W@@@&W@%W&&
+&WW%W@W@@@&M@@@@WMM@@@@@@W@$@WM@M@@W@M@#B&@WM$MWWW@@$@$@@%%%&&&%BW[%&WW%%&%&&&8&&B&&&%&&%%$@@@@%l8&&&&&&8%%&%B&%*&&[]]*+[*%@W&@W@@%8W@@@@@M@$&M@@@@@@@@W@M@@@
+@M@W@@@@@@@@@@@W&@@@@@@@@@@@@@@@@@WBMMMMW@M%$W@%&@@@@@$@@&%@&B%&&B%&&&%%B&%%%%8B%&&%%&&&&l[i[l%@M@@&&&&&%&&%%BB&&%[]][[[%[%W%@&@$@W&&@@@@@W@W@@@W@@@@@W@@@@@@
+W%%%&@&@@@$$@@@W&@B@@$@@$@$W$@@@W&$%%$$@%%&%@@@&%$$@W$WW@WW&&B%8%&&&%&&B&&&8BB&8%%WB&&%%&B&W&+~~*%@W@%&&&%%%%%&%%&&*&&[++ll&&@@@M@&%%@@@WW&&M&$WW@$@&$WWW@W@@
+@%%%%@@@@$@M@@M&%$W@@@@MM@@@@@$WM@@&BM@@&MW@@@@&%&&&%$&W@MM$%%%%B&%%%%%B&%&&&&%%B&%8&&%%&B%8%*%&[*lM%%$%%%%&[[*%%&&%%%*[*=l[B@@W&@$%W@W@M@%8M$@MB@@@@WM&$&W@@
+%&8@M@@@@@@W@$@@W@@@@$@@$$#WWM@@@$MW@&%@WWM$W@W$&@&B@@&WW%%&&&&%B&%&&B&&&&@%%&l8&&%%B&%&&&%&%&%%%@*l[]%@@&&&B%%%[%]%@B&[l[[]=$$@@@@&$$@@M&@@@W$@%@W@M@&W@&$@@
+@M@&W@@@@@$@@%&B%M@@$&@@@&@&W$&W&@%&%@@@W@B&@W$W&&%@$WW]&M%&]&&&%&B&&&8%&%B&[[%%&&%]l[%%&&B%&&%%%W%[[][&W$@%%B&&&]&=&+&l~ll*l%MW@@@%%&%WW%@W@B@@@@W@@@$@@@&@@
+@@@@M@@@M@W&@WW88B@@M@@WM@@@W@@@@@@@WW$M@WWMM%%&&M%%&%W&B%&&&8B%%&%&%&&&&B@&%l[%&&&8%%&%&&&&%%&8&B&%&[lB&&8@@&[[&&][&]%%*][[**MW@M@W&8WW$B@@@$@$@W@@@@@@@@@@M
+@WM@MW@W@&B%@@@W@@@@@W@@%&@M@M@@@@M@@@@@@@@W&%M%@&@&&WW&&&%%%%&%%B&B&&&&BB&&&&&]&&&&&&M&&&B&&%B&%%%&&&%%%@&&W$@*%B&]&*%&&*]&&~%W@@@@@WW@@@W@@WMW@@W@@@W@W@@M@
+@M$&BB@%%B%&@@@W@@@MW@BM@%W@@@W@@%W@@@$$&@W&&BB@@WW%&WW]l&&&%&B%%&W@WB&B&&&%&%&][&%%[%B&%B%%%B%8%B%%@&&&%%&&@&&@*8&&&*]%B~]%B%%B@@@@@@@@@@@M@@@W$$@@@@@$@$@W@
+&$$M%&@M@M@@M@@@@@&&@@@@@MW@$@M$@@@@M&%M%&%&%%@W@WW&WMBl&l%[%B&W&$&&8BBB&&@&&%%[]%%%%%&%&&%%%&]%l%%%&BM&&&&%M&W@%l]%&*i+&]l[%W&MW@@@@@@&@%%%&$@W@&&@@@@@$@@%@
+WM$@@@@$$&@B@@@@@W@W@BBM@@W@@W@@@@&@M$@W&BB&WW&WW@W%@%]][[8%%8B%%M&&@&BM@$%i*l88]&8%&&&&%&@B&%[%%&W&B&&@WB&&&&&&%%%&&*i+&[[%i&&%@@WM@@$W@&&&WM@@@@$@@@@@@@@@@
+&@@@@@@@@&BB@@@@@@@@@@@B@@@@@@@@@@&@@@W&&W@@&&&@&@&@W+&&&%&&&&%%%%&%W@%&%*l[i**+l&%&%%%&%&B*]&M@%@&&&&&$%&&M&@$&B@&B@i[i%*[%i8$%W@%&$@$@@@&&&&@@@@@@@@@@@@@@$
+&$@@@W@@@@&%@@@MM@$@@@@@@@@@@@@@@@@@@@W$&WW&WWM@W&W%+%B$%==+*%%%&&@%%W&&&l[[l&[il]l[]l&&&@&B&W&@&&W&%B%B8$MW@&$$&@&&@!*~&ll&&i@%]&&&%B&&$&@&%&&$@@@@W%@@@@@$&
+MM@@@@@@@@&&B@@@@$&@@WW@@@@M@@@@@@M@@@@@&%@@&&&WWWM&&&***]=]~+*&B&@M@@@B%*[]l&&&]]=%&&[&&&%&B&&&&B@MW&&&W&WWM&&$W&@W@ii]&**%&l%&&8&B@B&BWM@MMW@@@@@@M@@@@@@&@
+&8WWW@$$@@BW@$@@@@@@$@@@M@@@@@@@@@@@@@@&@W@@&&@8M@B&&[ll]*i[+%[B&%[%%$$&&%]*[WB&@&%%[8B&&B&%&&%B&W$BB@&%W&&W$B&&W&&M$%i%&%[%&*]&%@W&B&@W@@@M@@@@@@@@W@@@@@@@@
+[]&%M&@@@@&@@@@@@@@@@@W@@@@M@@@@@@W@@$@@@@@@B&M@&%&&[]%[l**&[&**=][]%=*%%&B%i%MMW&&%%&%B%&&%W@M@&W@$@@@@M@&B@@@@@B%B@%i%%[&&&+[%%%B%&%W%@@@%@$$WW@@@@@@@@@@W%
+&B@@@M$WMW@@@@@$@@@@@@@$@@@W@$@@@@@@@@@@W$%@%BW@&B%[]%***=l*[ll[[*]8B+[[%%%%&=%%&]%l%%%BB%&$&W@@@W@BW$@@$@@W&$W@WWM&W@i%&]8%&%]%&][*&&@&W@W@@&@M@@@$@@@@@$WWW
+@%@@@WW@@@@@@@@@@@@@@@@@@@@$@@@M@@$@M@@@@@&@&%BM%&Bl**%&[=**[[]%[]%&&%&%%]]*8&%8B&8B&B&&B8%%%WMW@*%@@@@@&@@@@&W@W@@8W@i%%&%[%&&&B%%%&&%%@W@M@@@@@$@@@@@@@@@@@
+%8&@@B&@@@@@@@@@@@@@@@@@@&&@M$@@MWWWW@$$@@W&&&@W8%*l+]*&&ii+[%&%&&&B&%B&8ll[][%*%&%&&%&B+l[=]%%@@%%%@W$MW@@@M&@@&W$W&@i%%&&]=&+%&l%&&BBB$W&MM@@W@@@@@@@@@@@@M
+WWW$@@@@W@M@@@@@M@@@@@@@W@@@@@@@M@@@MW$@W@%W%MW%%&[&B&]*&&l]]&%8%%[]%%%%&%%[%&%]*~B%%&M&WBB]+&@M&@lWW%$@@@BM&&W&%$@@W$l%%B&8%&]%&%%%%&B&B@$M@@@M@@@@@@@@@@@@@
+WW@&@@@@@MM&@@@@@$@@@@@@@@$W@@@@@@@@@@@W@&@@@WW&&W+&@@@&&B[l%&[=]]l%@@@M8&%]%]&*[=*&&B%@WW%%%%@@@@@%&&%$$B8B@@WMM&@@WM@%%B%&[&*l%%&%8%%%B$@@@@M@@@@@@@@@@@@@@
+&%$@@@@@@M@#@@@@@@@@@@@@@@@&&M@@@@@@@@$%@%&&$MM&%&&&W@@B&&+%&[*i*+&M@@@&&&8%&[l]=l]%B&&@M@$%8BW@B&@@@&%&B&$&&$&&%&&@%&@]*B%][B=l&&[%&l%&@$@@@&$@@$@@@@@@@@$@@
+%%&M@W@@@@M@@@@@@@M@@@$@@@@@@@@@@@W@MW%W$M8%M&@&%B%%%%&&W@~%&[ii%&%@@@M@%*+[%&[*****B&B&%&W%@W$&%%&WW@B&&&&&W%&M8%%@B*@+&=&&[B][%8]l]*&&$&&@@&M@@@@@@@@@@@@@@
+@W@&W@@@@@@@@$@@@@@@@@@%W@@@@@@@@@@@@@&@@@&&&&@&B@&&%***%%+%%*i+%W$@ii@@%]8%l]lii%+[&&&&&l@W@W@@&%&WM@W@&%&&&&@%%&BW%+$+[[%[[B%]+&][[][&]&B$@W$@@&@@@@@@@@@@@
+&&M&W@@@@@W@@$@@@@@@@@@@W@&@M@@@@@@@@W&@&&&[%B]%B@%%%*]%%[l&*ii+%%&&%8WW@&&&=l[[[%]]=*&B%%%&@@&W@&%%&&&@W&&B%&%&%@B&l%$i[[%8[%W][&%%&ll%&BB&W&@@@@@@@@@M@@@@@
+&lB@@$@@@@&@@@&@@@$@@@@@@@@@@@@@%@@@@@M@&%%B%%B@M&%%l]B[]]&&+[i+8&[%W%%%%%%&%]*%*B**]*%%&B%%%[%W@&%&$$W@@&&@&%%&&B&B8&$*]]iM&=@%%*B%&&+%&M&M@M@@@$W@@@WW$@@M@
+]]$W$W@@@W@@@$@@@@@@@@@@@@@@@@@@@@@@@M%M%B$&&lBWW&888]%%llB%[[=+8%]&&&&&&&&l%&&**[*i]%B8B&&&B&]&&&@&%%WW@&&@@B&WW%&&&%&+]]iB%[M=B%B8%%~%%B&WM@M@WB@@@@@@W@@@@
+8[B&&W&@W@$W@@@@$@@@@@@M@@@@@@@@@@@@@%&&B&%8%B8&W&[][]+[*&%][li+]&&B%%%&B8B%%=l[l*iiiB[*&%%&%8%%&%WW@BM&&WW@@B%&@W&&%%@=**[%%]%&$%&8&B%]B&@@W@@%%W@M@$W@M&$@@
+ll]&W@@@@@@@M@@@@$@W$@@@WM@@@@@W@@$M@@&&&W&%B&B%%&]&&B][%[[[+ii~%%&%&&&%%%][][*+l]ii%8%]%&%&&&[]]l&&BBB%%&@@M%B%@&%W*[@@i[&%%[%&B%%%%~%]&@@&@@@@@@@@W$@WW$M@@
+BB&WW@@@@@$@@@@@@@@@$@@$M&M@@@&@@@@@@@@M%M%%8&&8&@8%%l]]%*]*iii~%&8%B&%%&&=]*l*++*[*%&[%%&&%%%%]**&[%%&&&B@M&%%%&&%8l]%@i]&%%%[&%&%%&=88%W&@WW$@W@W@@$@@@@@@@
+%B&@@@@@@@@@@@@W@@@@@@@M@@@@@@&@@@@@@@@@&&%%&%&W&$&*]8%lliiiiiii&&%%&%][[=%][[[[i]*][*[%B%&]+8%%%&%]%%&@&8W@&888&%%%&lB@i]&%%[[&l&=&%&[%%BW$M@$$@@%@M@@@@@$W@
+&B&@@@@@$@M@%M$&#@@@@@WW@@$@@W@$@@@@@WM@B%B&&&B%%W&*]&%][iiiiiiii&B[]*]]%[[]]%][[l]&&%&&%%%%[&l%%%&&B%B@%&%W&B%][[*%%[%$[l8%%][&%B[]8&%8]BB&@B&W@&&&$@@@M$$%@
+@@M@@@@@&W@@M@@@@@@@M@MW@@M@@@@@@@@@W@&&&B@WW$M&&&@]*]&B&%iiii!ii]&%]l]l[[][+=**]+88%%%%*&B%]&]]%B&%8+&%&%&*&][[[]+$B&l$[*8%%]*&%B&*]&%B&%%%@@WB&&&M@$@@@W@M@
+@@M@@@$$@@@@@@@M@@@@@@@@@@&@@@@@@@@W@$@@&@@@W@@MB&%]ll***&&[[[&%&B&%ll[[[]l[=[l[]l[]][%B%l]%]&&&l[l][=]]%B]&&[&[[$l~%%]$l+]%%+]B&*&@[]8%WB%&@WM&%&%W@@@@@@@@@
+W@&W@@@@@@@WM@$W$@@@@@@$8%&@$W@@@@W%M$WW%@%&&$@@@M&[]+li*]%]**&*ll[*l*[]+**[+*]=*illl[%%&ll&&&*&&&]8B**]%B&*]%l[][i+]l]$%%%%%+*WW+%W]%&%WW%&@@W&%WB@W@@@$@@@@
+%&$@@$W@@@@@@&@W@@W@@$@WW@@@@@@@@M$M@$B&MWW&&&@@@&%@&][[l]][[%l][][**%]&=][[]l*]lil*+l&]%l=&%]l+%%%%+l+*=&[B&%]%B[*[[][$*l]*8*B%@*+$%&%8]@W&M@&@W@@@W@@@W@M@W
+*l@@$@$@@@@@@@M&M@@@@@@&WW@@@@@@@@@@@@@&&@@@$W%B&&%M@*&&*l]*l%&&%]]%]*[+ll%[*=*]*i[+*ll]*&[l%8[][*]]ii+il]%&8&%&lli%]**$]*[[8[[&@l]B%%B%%%%&@$@$&WW@W@$@@@@W@
+@&@@$&&@@@@@@W@@@@@@@@@M@@@@@@@$@@@$%@@@%M$@W%%&&&%W@&=%l[&%$&&%*%l&%&]%%%=*[**[=l*]*[=][l[%[]]]%]]=[++=i8[M&%@W[iii][]@%]l&&]B%@l[%@]&B%*%&%W@WW%&$W@@@@@@@&
+@@@@@&W@@@@@@@$@@@@@@@@@@@@@@@@@@@@@@@$@@W@@W@@&&8B%&&%*%BB&&&%%[]$B%l]%%%]]*+][l=]*[[l]]l]%[]%@MBBB]*;*][%8%]%*]*[+**[@&l=%&]&[$&%*&%&+*[&%%*$@W@@@WW@@@WWM&
+@@@@@@W@@@@@$W@@@@@@@@@@@@@@@@@@@@@@@$M@@@@@W@@MB@&%&W$][ll%&%%][&$&]l[&&&]][**]~=][**l=*[%%l8&$%B&%&+[[&&%&&B&[&%%llll@@+]&&B&[W&&[&&]*[]&%[lM@&@WW@W@@@&@@M
+@$@&@@@@@@@@@@@@@@@@$@@@@@@@@@@@@@@@@@@@@@@@@@@W@&W$&B@@ll%&&%[]]&%&&&]&%%]]lll[]l[=l*l]]&&%l8%@W&&[]%&*[lB&%ll&&%%88]=W@&&&&8&]%&l%%&]*+]l&%*%W%%BW$&@@@@@&&
+B$@WW@@@@@@@@M@W@@W@@@@@$$@@W@@@$@@@@@@M$W@@@&@&%@&B&&$@ii!**&&%B&]l[&[&%&*]%[&[**[*[=%WW%l][[*[%BM&B&%]*&@@&&&&W&B%&&&W@&%&&]B&[8%8%&[[]][%8B&%&%&MWM@@@@@&&
+&W@@W@@@@@@@@W@@@@@@@M@@@@@@@@@@@@@@@W$@@@@@@@@@W@B&&&@$M;,i!i*]&%&]%*l&]&%%l%8l*[+%%&&&[l+]*+l%B&&&8@@W@$$W++]+++%++]%B@B%8B]B%l&B%~&[]**[i&~&&&&W@WWW$W$M&W
+%&@W@&@@@@@@@@@@@@@@@@@@@@@@@@@@@@W@@@@@@@@@$@@@@@$&%@W%&B%;iill8*%&%%*%[=%%%%%&B]]%[]%]%[*][[[[%&BWWW[]i=*iiii*+iii+]]&@=%&&%&%&%&]+8[~[]+[%[&@%%%#W@@@@%&W@
+&&@@@@@@@@$M@@@@@W@@@@@@@@@@@@@@@$@@W@@$@W@@@@@@W@W%%&%&&WW&&%[]%[l&l%%%%B&&&B%%l%l[l*l]&%%W@@WWW%*****liiiii]%W@@@&&&&&$&&%&=&]@+&]+W@*]]i*+]8@WW&8%@@@MBW&@
+W@@@@@@@@$@W@@@@@@M@@$@@@@@@@@@@@$$@@@@@WM@@@@@WW@B&&%&@W%&W&&%BB%*[]%~8*+@%&8B%]%][&@@@MM@@%*l=[iiiiii%&&M&$%%%@%%&[l%%$&&&%B%=&*&]&&Wi*l=*[]=B&l&&&@$W&&BBM
+M@@@@@&@MW@@@@@@@$W@@@@@@@@@@@@@@@@@@@@M@@@@M@@@M&BW%BM@@B8&%%&&%&[&%]%[]]@@%*l%&8@@W$%****=*+ii+]%&&W@%%&%&&l[[%[%&&%&&$&&%&&][%%B&&B$i[[[i[+[@&*&&W@W&#@&@%
+@@@M@$@@W@@W@@@W$@&$@W@@$@@@M@@@@@@@@@@$@@@WW@@&%@MWW&@@@%@W8%%&&&88]&%ll][$&[i*&M%+*]*[[]l%%&&B%&%%*&%B&&%8&[B&&B%&&%*]W%&&&B&]%&]&%]W%]ll[*[]%&&%&%&W&&&%&%
+@MWMW%W@@WMWW@@@@@@$@@@@@$@@@W@@W@@@@@@@@$W&@@@WW$BW@W@@@%@W8&8B&%8&]*%]~%]%M&&*;i++[**+*%B%%&&l*+++%&%&B&MB@@&&&&&&&BB*W@&&&%&l]%i88lB&+l*&[[*%&&l%&%%W&&&%@
+@W@@@%W@$@@@@@@@@@@WM@@M@@@W&@@@W$$@M@@@@M@B@@@@M@@W$M@@W&B&&MW&&&%&&%[&=&B@@@==ii*[+]%&B%l+*l**][+&[&&B&&B@@W&&&&W&%&%%B@B&%BB]]@[]]]&&+][%]l]&%&[[&&%&&&&M@
+W&@W@@$@@$@$@@@@@@%%M@W&@W$W@&%M@@@@@@%@@@#W@@@@@@@$@@W&8&B&M%&&%%&&&%B[]*@@Wiii+l[%&B%][[+l*[+i+l]&%%&WWW$@WB%%%&%&&B&*8$B&*&%8%@@+]%&&%[l[l][%8&&B&8BW&&%&&
+M@@@@@&@@@@W@@@@@@M@@@$@@M$@@$WW@@$W@$@@@@@@@@$W@W@W@$&@&%&B&%lB8&8B%%B%&@@iiii%@@M&&%&%[[][*[*i[[]&BM@&&&@@&&%%&&&&&B%=~@&%%&&8%B$%]]&&%l*]~l[8%&&%&&&8&W&W&
+@@@@$@@@@M@@@@$@@@W@@@@@@@&M@@@@@@@@$@@@@@@@@$&@@&@M@@@@$@@&W%&B&&&%&8B&@Wiii[@M$B%&[[&&&%[*~lii]=8B&@WW&#@@@&%8&&B&B&&%*@@%%%[%]&%&**&&%+][[[][8l%%&&&%&&%%W
+%@@@$@@@@$$@W%%@@@%@@@@@@&B%&$B@@@@@@@@@B@@@@@@@@@@@@@@@@@@&&&%%%%&%&&&@Wii[@@W%%%i]*[%%%%%**[il[l%&BW@&&WM@@$@@&&MW&&B%&&@%%%[&&BB&i][%%il]=*=8%[*[BB%l&%%%[
+@@@@W@M@@@@@@%$@WW@@@@@@@@%B#M&$@@@@@@@@@@@W@@@@@@@@@@@@@@@M&WM&&%B&BM@Wii%BW&]&&&%&&&&%[[%[==***[&8%&&%&@M@WWW#W&WW&%8B&%@&[[%%%BB&l*]%]+i]8&~&%%[lW%B&%*%%8
+@$@@WM@@@@@@@@@@%@WM@@@@@@@@&M@@W$@M@@M@@@$@@M@@@@@@@@@@@@@W@&B&%%&@&@@%%@&%%&%%&%&%&&%%Bli~+]*]%8B&W@&@@&M@&W$MW%BW&%%&%&$&]%+%&&%&%=B&%+]*%8B&[%][*BB8%%]&[
+@@@@@$%@@@@@@@@@WW@@@@@@@W@@W@@@@@@@@@@@W@$@@@@@@@@@@@@@@@@@@W&&%l%WW@&W@%%%&B%%l8%&B&8&&][[ii][%&&&MW&@@M@@%BB@&#&&@W@%i&$&]*[%%&&%%*B&&=**8&[l][8%l%8%&%%%[
+@$$@@@&@@@@@@@@@@@@@@@@$@@@@$@@@@W@@@@@@@@@@@@@@@@@@@@$B@@@@$&%%&&&MB@8B&&%&&&&&%%&%%B&B&&]%[[l]B&8W&M&M@@W@@BW&M&%&@%W&[*$&%[=&%*%8%+%&%=i+&[]]][[%[]8%&[[&]
+@@@@@@@@@@@@@@@@@@@@@@@@@@@@@@@@@&M@@@@@@M@M@@@@@@@@@@@@@@W@@BB&%B&&@&%B&&%&%%&&&%&&&&&%%%88]*+~%B%&%%&WWWW$@M%$@&8&W&&&%&@&l%B&%[8%[+8l+[ii][*&[[[[8]&%&&&%&
+@@@@@@@@@@@@@@@@@W@@@@@@@@@@@@@@@@@@@@@@@@@@@@@@@@WM@@@@@@@@@&&&BB@@WB%%%&B&%&%&&MW@%%[&B&&%%&l&B&&&BW&&&B&@@M@@W&@&&@&[B%@&%&&8*[%&%=][[]*]8%*][l[*l[MM%&%&B
+@@@@@@@@@@@$@@@WM@@M$@@W$$W@@@@W@@$$@@@@@@@@@@@@@@@@@@@@@@@$@$%&%&B&8%&%%[&B&WW%*%@%%&&%%%%&8B&%%%%&%8%&%&$@W@W%W&W&&@=ll&@=[]~l]%&&%%*&]*][]&~**=~l%=@&@@&&@
+@M$@@@@@@@@@@@@M@@@@@@@W@WM@@@M@@@@@@MM@@@M@M@@@@@@@@@@@@@$M&&&8&&%%]%8B&BB&@@%%%%&&%&%%%B%%B%%[[*B&&%%%&@MW@WW&%&&%%]~l*[&l][]]l[*%&[l%[*[%=l]*l[*[[]M&&%&@&
+@&@@@@@@@@@M@@@@@@@@@@@@@@@M@@@@@@@@@@@@@@@@@@@@@@@@@@@@$@W@&$&&&B[%%&BB%W&%%&&&8&%B&&&%&l*%%&B%]+[**%%M%B@&WW&WW%%%%[ii*%@][lll%[=][l*&&]]l]*]i+[][8B@$@&WWW
+@%@@$@@W@@@@@@@@@@$@@@@W@W@W@@@@@@@@@@@@@@WM@@@@@@@@@@$@@&@&&$B&&[]%%&B&8&B&%%&%&%[i~%&%%%&%&B%[[%=%%=i&%]*&@@&8%&8%B&[i=%@%*l=*=&[[[[]*&&B&W@@@&BB%&%&&@&B$&
+$W@@@@@@@@@@@M@@@@@@@@@@@M@M@@@@$@@@@@$@@@@M@W@@@@@@@@@@@%@$%WB&&*]&W@%WM%B%&&%%%B&W@&%%&8%l&*&&]&l%%=~B8*8&@%WW@B%%%[W@[[$=[~+l*[][*][]%B&&@W%@W&&MW&@B%%&$B
+W@@@@@@@@@@@@@@@@@M@@@@@@@@@@@@@@@@@@M@@@@@&@W@@@@@@@@@@@BM$W@%%]*@%B%BMM&&%&BB%%&BMW%B[%&B&%&&B%&B&&%]%l%&&W%WlBW@@%&%%=&W%*~il*=&%=%8]%%l%%&&%@@%%%W@&&%@@@
+&W&M@%@@@@@$@@@@@@&@@@@@@@@@@@@W@@@@@@@@@@@@@@@@@@@@@@@W$@@@WWB%%@M%&&8%%&&&WW&*+%&8%B&&&&&B&]l[%[ll&W@%@%&&&%&[B%%%&[B%l8&[*ll[]*+&]*&[+@&8B%W@@WlWW&W&%@$&@
+@&$@@@@@@W@M@@$@@@@$@@@@@@@$@@@@@@@@@@@@@@@@@@@@W@@@@@@@@M$W&&&]]M&%&&8%&%BM8%%&&%%B%B&&%&%@%8*[&[l%%%W&@B&&&@&WM&%B@&B&[&@++*]~l&%&&[l%@@&W@@W@&WB%@WM$@M@&@
+@&@@@@@@@@@@@$@@@$@@@@@@@@@@@@W@@$@@@@@@@@@@@@@@@@@@@@M$MW$@&&B%&B@W@&B%&&&&&%%&BB&&&%%&$&&&&&%&%&]l=%&B&&%@&$&@&&&M@&&&%B$W@WMW@WW&&WW@@$B$W@@&&&&&WW@@@@$W@
+@@@@M@@@@@@@@$@@@@@@@@@@@@WW@@@@@@@@@@@@@@@@@%@$@@%@$@@@@@@W%&&8&B%%@&&&**B%%*%M@&&@%&%%@B&&W$B&%[%%*]%%&%$@@B&%&%B@&%&%&%][8%l%%B&B8&%&$@@@@@@W&8&&%&@W@@W@@
+$@$$@@@@@@@@@@@@@@@@$@@@@@@M@M@@@@@@@@@@$@@@@&@@@@@@B@W@W$@8&&@&&8&%%&**++*%%8B%@%%%&&&&$&%%&%&B&&&&+&*8&&M%$@@$MW$@&&WWW&&&&%%[%B&&8@&@@$%WW@@@@&$MW@@@@@W$@
+@@@@@M@@@@@@@@@@@@@$@@@@@@M@@@@@@@@@@$@@@@@@@&@@@@@$@@@&&M@&%&W&8%%&&&**&==i[]&&&&%&&&%&%&W&%&B&8[&%[%&B%B&WW@M&%&B@&&BWW&&&&%%]%%&&&&B$&@W%@@MW@@&&@$W@@$%%&
+@@@@@@@@@@@@@@@@@@@@@@@$@W@@@@@@@@@@$W&@@@@@@@$@@@@@@@$@W$W&&W%%&&&&&%&[[+&~%&%8%B%&[%&8&8B%&&%&&&%]%]%8@W@BB&&%&%W@&W%%%&&%[%%8]&@WB&8BWWWM@@&&%@B%%@W&W@%&B
+@@@@@@@@@@@W@M@@@@$@@@W@@@@@@@@@@B@@M%&@@@@@@$@@$@@@@@@@&&&%&%%%&&*%%&**l]l[&%&%&8W&%%&&B8&%%B&&&&%**&BBB%@%W%&&&B&WB&%%&&&&&%&&W&%W&%%&W%%%@%M&@WM@@@W@M8MW@
+@@@@@@@@@@@@@@@@@@@@@@@@@$@@@@@@W@$W@@@@@@@@@@@@@@@@@$@W&&&M%B&&%&%&l%$&B&&%%%8%%%&B&W@&&%B%88B&M&%][%M%#@&M@%%M&@&M@&]M&%@%&&&&W%&&&&WW%&&&&8MWWW@@@@$W@MB$@
+@@@@@@@@@@@@@@@@@@@@@@@@@@@@@@@@@W$@@@M@@@@@@@@@@@@@@@&&&%8%=%%%[%%%&@%[&%BB&%=llB&B&%&%%&&%%&&&&B&l]l&%W@&&@[B%&%&WW@&*W%$@&&+8&W%%&%][%[&%[&%@W@@@@@@&@&@@W
+$@@@@B&M@@@@@@@@W@@@@@@@@$@@$@@@M@@@@@8@@$@@@@@@@@@MWM&&&B%%B&&%8&B&@~*]]][%%%%=8[[]]&B%@&88%@%&%[]&%B%&&&%&%B&&&&8W@@**B&&W%&%&&%&[%%88&&&&&&&%%@$@@@@M@&$@%
+@@$@M$%W@@@@@@@@@@@@@@@@@@@@@@@@@@@@@@@@W@$@@@@@@@MWW&B&%&%&&[&%%%[%&+=ll=&&&88%l[l&]&8%$&%B8@&&%&%[%l%%WB@@W%l[WM$&$@*i%B%M%8&%B%%&%B&%WWWB&WM@M@@@@@@@@@@W@
+@$@@@@@M@@M@@@@@@@@@@@@@@@@@WM@@@@@@@@@@@@@@@@@@@&@W@&W@&[[%%]%&*]*BB[*l]l]]%&][[][]%%&%&&%&@&*&&&&[%~]%&B$@M&W@&%&&&@l]&&%&%&&l]]&&&&%&%&&&&@&W@@@@W@@@@@@@@
+W@&$&@WM@@M$M@@@W&@@@@@$@$$@M@@W@@@@@$@@@@@@@@@@@@@@W$&8%*%%%[l[l=&&&[i[i*[]][%][%*]%%&&&&%8@%%%%%%]&l[%&&$WWB&&&B&&$*][%%%%&%8&[*B&WB&%&%%&%&&%W@@@@@@@@@@@&
+@@@@W@M@@M@@M@@@W@@@@@@@@@@@@@@@$@M@@@@@@@WM$@WMWM&&&%8%[[%%]Bl[[*%&[[ll][[8[*]*[%[&&%&&%&%&&&8%~[%&%l[%&&$&%MM&W@WWM+il+l%%&BB%l*8%&&&8%%B&&&BB@@@@@@$%@$@@@
+@@@@@@W@@@@@@@@@@@@@@@@@@@@@@@@@M@@@@@W@@W&@WW@%$BW&&%%B&%&B&=i=+&&&=&llll[[[[[~8%%]l%%8&%&&&&=]+**l%&[%%%&M@%@&&&&@W[ill+%8&%&%%&&&%%%&%B&&&%%W$@M@%@@&B@@@@
+$@$@@M&@@@@@@@@@@@@@@@@@@@@@@$BM@@@@@@$$@@%$W@@@&@%%B%*[&%*%[]++]%%&%&=l*]B[8%*l]8%]&%&%%&&%@&%%%l][&%]][%$@@&$W@&M&&*[[~~&%%&l&%B@&8%@BM%%%@&&W@@W@@@@@M@@&%
+@@@@@@@@@@@@@M@@@@@@@@@@@@@@@@@$@@@@M@$@@$M&&W@$M%%&&]%&%[%%[i]~]8%]%[*ii[B[[[]BB&B&[%&[%B&M&%%l%8B&&%&&%&&WM&%W$%&%MWBM&&B%%&&&&B@%WWW&&&&B@%@@@@@WW@@@W@W@@
+@@@@W@@@M@@@@@W@@@@@@@@@@@@@@@@@W@@@@@$#@W@WW&&&&%%&[&%%%%]%l;]]*%+]l%[ii*&&+[ll&&&%&8&%B&&M@8%&%&&&&&&&88%&@%%&&&%BW&&B&&%&@B%%%&%%%%B%&B&&MB@W@@@@WW$$&@@@@
+@$@@@W@@@@@@@@@@@@@@@@@@@@@@@@$$W@W@@@B$@@&&%%&M@&&[[]%%l&*]i]*++][+&~%[[[%&%li]l%[%%&B%B%&B@@&8*8%&%%[[&&B%%&W&&BM&&B&@%%&%&&&%%&B&%%%%&B&%&&8&W@@@W@$@@&@@@
+@@@@@@@@@@@@@@@@@@@@@@@@@@@@@&@@@W@@@@$&M@$&M%&M8W%[l=8%&~iii%%%%*]%&]&&l*i&&Bl]BBl8&B&%%%W%&$MM%&%%&&&&%8%&&&$$&B%%%B&%B&&&%%&%&&%&&&88&&&B%W@@W@@@&@@@@@W@@
+@@@@@@@@@@@@@@@@@@$@@@@@@@@@@@@@@@@@@@@@WM@@&$&@WBB&=+]&l&illl%%%[[[&[*&&ii%&]*8%%&&&%%&[8%%&$$&&%&&&&%%B&&&&%&WW&&&B&&%%BB&%%B&@&B&%*&8%%%%%B$M@@@@W@M@@@@M@
+@@@@M$@@@@@@@$@@@@@@@@@@@@@@@@@&@@@@WW@@&@@@W&&$%]ll*]8]ili[l&%%%%&]%[[l+ii%&]]W@8%%%8&B%&%B%&&&M@$%l&%]&%&%88BM@&%&&&8[%]%%&&&&%%&&%%l8%%%[&&BB@@@@W@$@@@@@W
+@@M@@@@@@@@@@@@@@@M@@@@@@@@@@@&M@M$@%&W@@@$&&M&@%]***%%[[]*%%%%&%%%%%8%[i!i[%%%WW[&B&W%&%%&MM@&%@%%[*%B&&&%*%&@@@%]&]*l]+ii%%ll%&&&%%[*%8&%%%&&&%%@@@M@@@@@WM
 ```
 
 ```commandline
 python contour_shade.py ^
 --image_path ../../resource/imgs/girl_with_pearl_earring.jpg ^
 --resize_factor 4 ^
---contrast_factor 1 ^
+--contrast_factor 16 ^
 --thresholds_gamma 5 ^
 --save_ascii
 ```

diff --git a/src/contour_shade/README.md b/src/contour_shade/README.md
@@ -13,7 +13,7 @@ Check out the [palette tutorial](../../palette_tut.md).
 3⃣ Execute `contour_shade.py`.
 **Example**:
 ```commandline
-python contour_shade.py --image_path ../../resource/imgs/tsunami.jpg --resize_factor 8 --contrast_factor 8 --resize_method bilinear --invert_color
+python contour_shade.py --image_path ../../resource/imgs/tsunami.jpg --resize_factor 4 --contrast_factor 16 --resize_method bilinear
 ```
 
 **Parameters**
